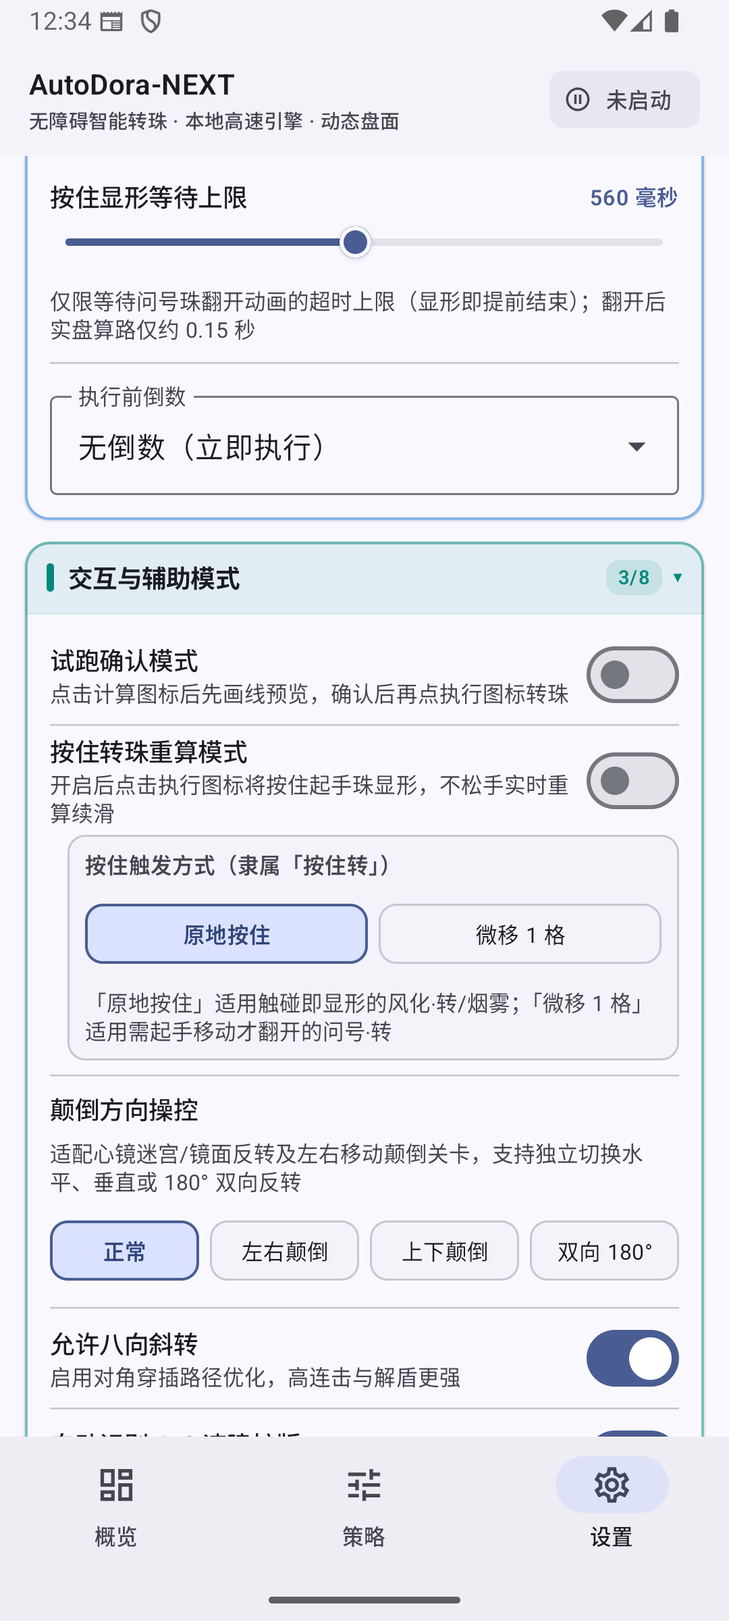
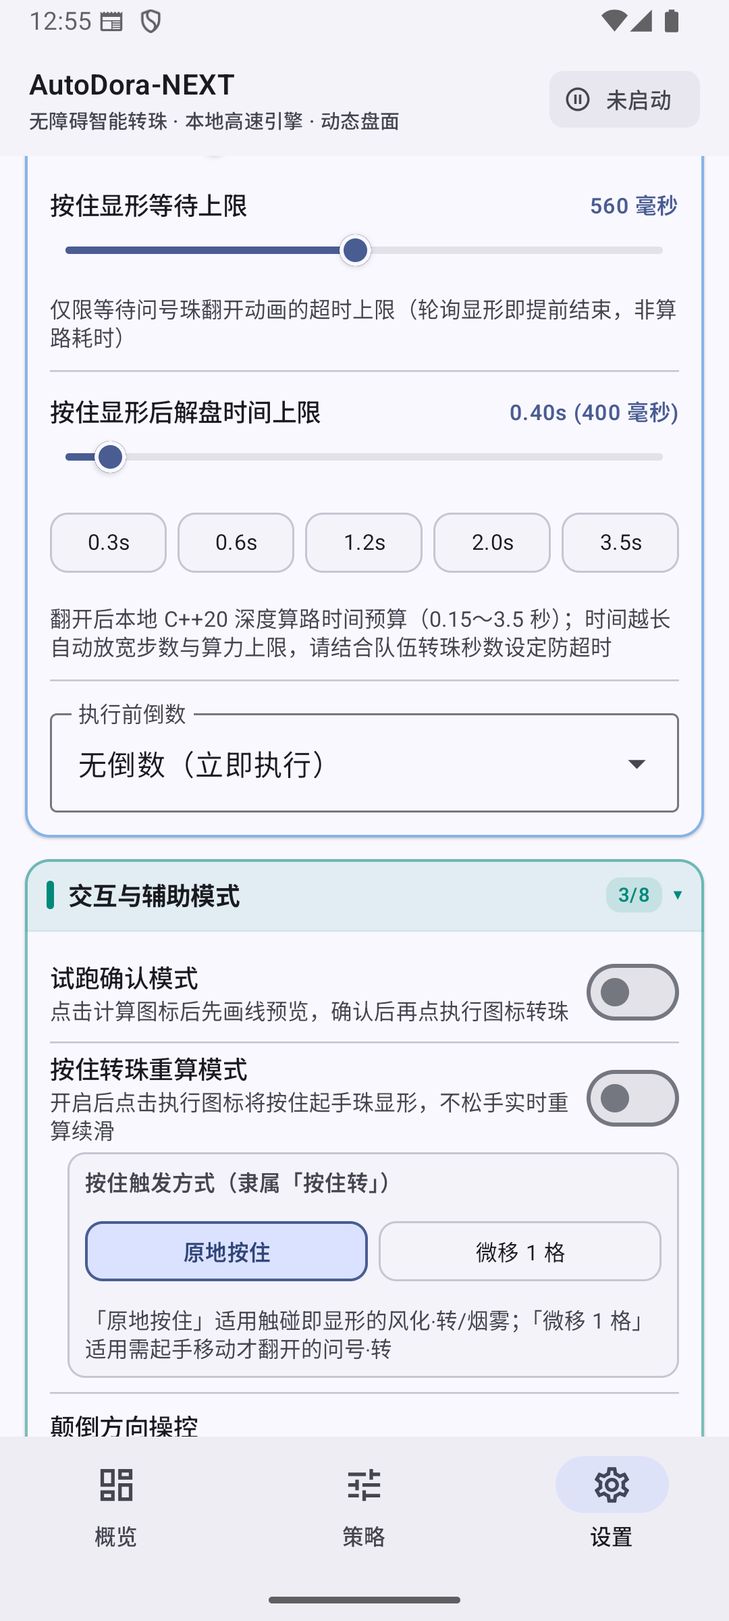
feat(solver,touch,ui): add configurable Hold-Replan post-reveal solve budget (0.15s-3.5s) and fix fixedStartCell beam collapse

Changed region(s): [[0.0306, 0.0938, 0.9778, 0.9062], [0.0917, 0.0, 0.1222, 0.0312]]

diff --git a/android/app/src/main/kotlin/com/autodora/next/overlay/OverlayControllerService.kt b/android/app/src/main/kotlin/com/autodora/next/overlay/OverlayControllerService.kt
@@ -296,7 +296,8 @@ class OverlayControllerService : Service() {
         board: BoardState,
         fixedStartCell: Int = -1,
         fastMode: Boolean = false,
-        fastMaxStepsCap: Int = 30
+        fastMaxStepsCap: Int = 36,
+        fastMaxTimeMs: Int = 400
     ): RuleConfig {
         val preset = activeTeamPreset()
         val global = settings.toRuleConfig()
@@ -327,21 +328,31 @@ class OverlayControllerService : Service() {
         )
         if (!fastMode) return composed
 
-        // Hold-and-Replan real-time hard budget: MUST apply AFTER RuleComposer.compose so highDifficultyShield
-        // never inflates maxTimeMs back to 800ms or beamWidth to 260+ while the game's turn timer is ticking!
+        // Hold-and-Replan real-time budget driven by user-configurable holdReplanSolveTimeMs (150..3500ms):
+        //  - Short budgets (<= 350ms, e.g. classic 5s stages): tight beam/steps keep total turn safe under 2s.
+        //  - Medium budgets (351..1000ms): unlocks deeper 52-step / 360-beam search.
+        //  - Deep budgets (> 1000ms up to 3500ms, e.g. 10s-25s modern teams): unlocks full configured beam (up to 600)
+        //    and up to 80 steps so Hold-and-Replan matches full-power high-combo & complex-shield solving!
         val hasHardShield = activeWaveChips.isNotEmpty() ||
             composed.puzzle1.enabled || composed.puzzle2.enabled ||
             composed.crossShield.requiredCount > 0 ||
             composed.exactTotalCombo >= 0 || composed.exactFirstWaveCombo >= 0
+        val budgetMs = fastMaxTimeMs.coerceIn(150, 3500)
+        val effectiveTimeMs = if (hasHardShield) maxOf(budgetMs, 220) else budgetMs
+        val beamCap = when {
+            effectiveTimeMs <= 350 -> if (hasHardShield) 240 else 200
+            effectiveTimeMs <= 1000 -> 360
+            else -> 600
+        }
         val cappedSteps = if (composed.exactSteps > 0) {
             composed.maxSteps
         } else {
-            minOf(composed.maxSteps, fastMaxStepsCap.coerceIn(16, 36))
+            minOf(composed.maxSteps, fastMaxStepsCap.coerceIn(20, 80))
         }
         return composed.copy(
             maxSteps = cappedSteps,
-            beamWidth = minOf(composed.beamWidth, if (hasHardShield) 200 else 180),
-            maxTimeMs = if (hasHardShield) 180 else 135,
+            beamWidth = minOf(composed.beamWidth, beamCap),
+            maxTimeMs = effectiveTimeMs,
             topK = 1,
             fixedStartCell = fixedStartCell
         )
@@ -1256,10 +1267,14 @@ class OverlayControllerService : Service() {
                 endHoldMs = 28L,
                 maxStepsPerSegment = 18
             )
-            val maxSwipeStepsForBudget = (1800L / holdSwipeConfig.stepDurationMs.coerceAtLeast(24L))
-                .toInt()
-                .coerceIn(24, 30)
+            val holdSolveTimeMs = settings.holdReplanSolveTimeMs.coerceIn(150L, 3500L)
+            val maxSwipeStepsForBudget = when {
+                holdSolveTimeMs <= 350L -> (1800L / holdSwipeConfig.stepDurationMs.coerceAtLeast(24L)).toInt().coerceIn(26, 36)
+                holdSolveTimeMs <= 1000L -> 52
+                else -> 80
+            }
             val maxRevealWaitMs = settings.holdReplanDelayMs.coerceIn(240L, 900L)
+            val maxHoldWaitMs = maxRevealWaitMs + holdSolveTimeMs + 1200L
             val bandTop = (geom.topPx - geom.cellHeight * 0.15f).toInt().coerceAtLeast(0)
             val bandBot = (geom.bottomPx + geom.cellHeight * 0.15f).toInt().coerceAtMost(screenH)
             val startIdx = startCell.row * geom.cols + startCell.col
@@ -1272,6 +1287,7 @@ class OverlayControllerService : Service() {
                     trigger = trigger,
                     nudgeTarget = nudgeCell,
                     revealDelayMs = 0L, // Smart early-ready poller below replaces blind sleep!
+                    maxHoldWaitMs = maxHoldWaitMs,
                     config = holdSwipeConfig
                 ) { heldCell ->
                     val tReplanStart = System.currentTimeMillis()
@@ -1357,13 +1373,14 @@ class OverlayControllerService : Service() {
                     editedBoard = effectiveBoard
                     usedMemorizedSnapshot = false
 
-                    // Phase 2: Tight real-time C++20 single-start solve (strictly <= 135..180ms!)
+                    // Phase 2: Real-time C++20 single-start solve using user's holdReplanSolveTimeMs (150..3500ms)
                     val tSolveStart = System.currentTimeMillis()
                     val composed = composeEffectiveRuleConfig(
                         board = effectiveBoard,
                         fixedStartCell = heldIdx,
                         fastMode = true,
-                        fastMaxStepsCap = maxSwipeStepsForBudget
+                        fastMaxStepsCap = maxSwipeStepsForBudget,
+                        fastMaxTimeMs = holdSolveTimeMs.toInt()
                     )
                     val token = NativeSolver.createCancelToken()
                     activeCancelToken = token

diff --git a/android/core-data/src/main/kotlin/com/autodora/next/data/SettingsRepository.kt b/android/core-data/src/main/kotlin/com/autodora/next/data/SettingsRepository.kt
@@ -50,7 +50,8 @@ data class AppSettings(
     val multiFrameCount: Int = 2,
     val showOrbBadgesOnPath: Boolean = true,    // Show compact recognized orb badges so users verify board accuracy at a glance
     val holdReplanEnabled: Boolean = false,     // Toggle mode: when ON, '行' executes Hold-and-Replan (按住重算)
-    val holdReplanDelayMs: Long = 560L,         // Max wait ceiling for '?' flip reveal (smart early-ready poller exits as soon as board opens!)
+    val holdReplanDelayMs: Long = 560L,         // Max wait ceiling for '?' flip reveal animation (exits early once revealed!)
+    val holdReplanSolveTimeMs: Long = 400L,     // Post-reveal C++20 solve time budget (150..3500ms, default 400ms / max 3.5s)
     val holdReplanNudge: Boolean = true,
     val invertDragX: Boolean = false,
     val invertDragY: Boolean = false,
@@ -101,6 +102,7 @@ class SettingsRepository(private val context: Context) {
 
         val HOLD_REPLAN_ENABLED = booleanPreferencesKey("touch_hold_replan_enabled")
         val HOLD_REPLAN_DELAY_MS = longPreferencesKey("touch_hold_replan_delay_ms")
+        val HOLD_REPLAN_SOLVE_TIME_MS = longPreferencesKey("touch_hold_replan_solve_ms")
         val HOLD_REPLAN_NUDGE = booleanPreferencesKey("touch_hold_replan_nudge")
         val INVERT_DRAG_X = booleanPreferencesKey("touch_invert_drag_x")
         val INVERT_DRAG_Y = booleanPreferencesKey("touch_invert_drag_y")
@@ -129,7 +131,8 @@ class SettingsRepository(private val context: Context) {
         multiFrameCount = p[Keys.MULTI_FRAME_COUNT] ?: 2,
         showOrbBadgesOnPath = p[Keys.SHOW_ORB_BADGES] ?: true,
         holdReplanEnabled = p[Keys.HOLD_REPLAN_ENABLED] ?: false,
-        holdReplanDelayMs = p[Keys.HOLD_REPLAN_DELAY_MS] ?: 560L,
+        holdReplanDelayMs = (p[Keys.HOLD_REPLAN_DELAY_MS] ?: 560L).coerceIn(240L, 900L),
+        holdReplanSolveTimeMs = (p[Keys.HOLD_REPLAN_SOLVE_TIME_MS] ?: 400L).coerceIn(150L, 3500L),
         holdReplanNudge = p[Keys.HOLD_REPLAN_NUDGE] ?: true,
         invertDragX = p[Keys.INVERT_DRAG_X] ?: false,
         invertDragY = p[Keys.INVERT_DRAG_Y] ?: false,
@@ -165,7 +168,8 @@ class SettingsRepository(private val context: Context) {
             p[Keys.MULTI_FRAME_COUNT] = next.multiFrameCount.coerceIn(1, 3)
             p[Keys.SHOW_ORB_BADGES] = next.showOrbBadgesOnPath
             p[Keys.HOLD_REPLAN_ENABLED] = next.holdReplanEnabled
-            p[Keys.HOLD_REPLAN_DELAY_MS] = next.holdReplanDelayMs.coerceIn(160L, 900L)
+            p[Keys.HOLD_REPLAN_DELAY_MS] = next.holdReplanDelayMs.coerceIn(240L, 900L)
+            p[Keys.HOLD_REPLAN_SOLVE_TIME_MS] = next.holdReplanSolveTimeMs.coerceIn(150L, 3500L)
             p[Keys.HOLD_REPLAN_NUDGE] = next.holdReplanNudge
             p[Keys.INVERT_DRAG_X] = next.invertDragX
             p[Keys.INVERT_DRAG_Y] = next.invertDragY

diff --git a/android/app/src/main/kotlin/com/autodora/next/ui/DashboardScreen.kt b/android/app/src/main/kotlin/com/autodora/next/ui/DashboardScreen.kt
@@ -820,6 +820,43 @@ private fun SettingsTab(
                 style = MaterialTheme.typography.bodySmall,
                 color = MaterialTheme.colorScheme.onSurfaceVariant
             )
+            HorizontalDivider(color = MaterialTheme.colorScheme.outlineVariant)
+            val solveSecFormatted = String.format(java.util.Locale.US, "%.2fs", settings.holdReplanSolveTimeMs / 1000.0)
+            SliderSettingRow(
+                label = stringResource(R.string.slider_hold_solve_time),
+                valueText = "$solveSecFormatted (${settings.holdReplanSolveTimeMs} $msUnit)",
+                value = settings.holdReplanSolveTimeMs.toFloat().coerceIn(150f, 3500f),
+                valueRange = 150f..3500f,
+                onValueChange = { v ->
+                    onUpdateSettings {
+                        it.copy(holdReplanSolveTimeMs = ((v / 50f).roundToLong() * 50L).coerceIn(150L, 3500L))
+                    }
+                }
+            )
+            Row(
+                modifier = Modifier.fillMaxWidth(),
+                horizontalArrangement = Arrangement.spacedBy(6.dp)
+            ) {
+                for ((presetLabel, presetMs) in listOf(
+                    "0.3s" to 300L,
+                    "0.6s" to 600L,
+                    "1.2s" to 1200L,
+                    "2.0s" to 2000L,
+                    "3.5s" to 3500L
+                )) {
+                    CompactChoicePill(
+                        label = presetLabel,
+                        selected = settings.holdReplanSolveTimeMs == presetMs,
+                        onClick = { onUpdateSettings { it.copy(holdReplanSolveTimeMs = presetMs) } },
+                        modifier = Modifier.weight(1f)
+                    )
+                }
+            }
+            Text(
+                text = stringResource(R.string.slider_hold_solve_time_sub),
+                style = MaterialTheme.typography.bodySmall,
+                color = MaterialTheme.colorScheme.onSurfaceVariant
+            )
 
             // Pre-Swipe Countdown Native Exposed Dropdown (pre-resolved with localized context so Popup never falls back to system locale!)
             HorizontalDivider(color = MaterialTheme.colorScheme.outlineVariant)

diff --git a/android/core-touch/src/main/kotlin/com/autodora/next/touch/AutoDoraAccessibilityService.kt b/android/core-touch/src/main/kotlin/com/autodora/next/touch/AutoDoraAccessibilityService.kt
@@ -165,6 +165,7 @@ class AutoDoraAccessibilityService : AccessibilityService() {
         trigger: HoldReplanTrigger,
         nudgeTarget: CellCoord?,
         revealDelayMs: Long,
+        maxHoldWaitMs: Long = 2400L,
         config: SwipeConfig,
         onBoardRevealed: suspend (heldCell: CellCoord) -> SolutionPath?
     ): TouchExecutionResult = coroutineScope {
@@ -216,10 +217,11 @@ class AutoDoraAccessibilityService : AccessibilityService() {
             onBoardRevealed(effectiveNudgeCell)
         }
 
-        // 3. Keep finger pressed seamlessly via calm micro-heartbeat strokes (avoids Binder spam while staying responsive!)
+        // 3. Keep finger pressed seamlessly via calm micro-heartbeat strokes (supports up to 3.5s post-reveal solve!)
         var toggle = false
         var heartbeatIdx = 0
-        val maxWaitDeadline = System.currentTimeMillis() + revealDelayMs.coerceAtLeast(0L) + 1800L
+        val effectiveWaitCapMs = maxHoldWaitMs.coerceIn(1800L, 6500L)
+        val maxWaitDeadline = System.currentTimeMillis() + revealDelayMs.coerceAtLeast(0L) + effectiveWaitCapMs
         while (!replanDeferred.isCompleted && !cancelRequested.get() && System.currentTimeMillis() < maxWaitDeadline) {
             val nextPt = if (toggle) {
                 ScreenPoint(heldPt.x + 2.0f, heldPt.y)
@@ -231,8 +233,12 @@ class AutoDoraAccessibilityService : AccessibilityService() {
                 moveTo(curFingerPt.x, curFingerPt.y)
                 lineTo(nextPt.x, nextPt.y)
             }
-            // First hold covers initial flip latency in 1 IPC call (140ms); subsequent heartbeats 75ms for snappy handoff
-            val hbMs = if (heartbeatIdx == 0) 140L else 75L
+            // First hold covers initial flip latency (140ms); quick 85ms beats early; gentle 110ms beats during deep 1..3.5s solves
+            val hbMs = when {
+                heartbeatIdx == 0 -> 140L
+                heartbeatIdx <= 5 -> 85L
+                else -> 110L
+            }
             heartbeatIdx++
             val nextStroke = activeStroke.continueStroke(holdPath, 0L, hbMs, true)
             if (!dispatchSingleStroke(nextStroke, true, nextPt)) {

diff --git a/android/app/src/main/kotlin/com/autodora/next/overlay/OverlayTuningDrawer.kt b/android/app/src/main/kotlin/com/autodora/next/overlay/OverlayTuningDrawer.kt
@@ -1371,6 +1371,26 @@ class OverlayTuningDrawerController(
             engBody.addView(makeComputeSeekBar(settings.beamWidth, p, beamLbl) { nb ->
                 onUpdateSettings { it.copy(beamWidth = nb) }
             })
+
+            engBody.addView(makeSubDivider(p))
+            val solveSecLabel = String.format(java.util.Locale.US, "%.2fs", settings.holdReplanSolveTimeMs / 1000.0)
+            engBody.addView(makeSubLabel(s(R.string.ov_hold_solve_hdr_fmt, solveSecLabel), p))
+            val holdSolveRow = hRow(bottomMarginDp = 0)
+            val holdPresets = listOf("0.3s" to 300L, "0.6s" to 600L, "1.2s" to 1200L, "2.0s" to 2000L, "3.5s" to 3500L)
+            holdPresets.forEachIndexed { idx, (lbl, ms) ->
+                holdSolveRow.addView(
+                    makeToggle(
+                        lbl,
+                        settings.holdReplanSolveTimeMs == ms,
+                        p,
+                        weight = 1f,
+                        marginEndDp = if (idx == holdPresets.lastIndex) 0 else 4
+                    ) {
+                        onUpdateSettings { it.copy(holdReplanSolveTimeMs = ms) }
+                    }
+                )
+            }
+            engBody.addView(holdSolveRow)
         }
 
         // Card 1 (Amber): Unified 6-Tier Swipe Speed Presets (2s..7s, matches Launch App Settings Amber card!)

diff --git a/android/core-touch/src/main/kotlin/com/autodora/next/touch/AccessibilityTouchExecutor.kt b/android/core-touch/src/main/kotlin/com/autodora/next/touch/AccessibilityTouchExecutor.kt
@@ -27,6 +27,7 @@ class AccessibilityTouchExecutor : TouchExecutor {
         trigger: HoldReplanTrigger,
         nudgeTarget: CellCoord?,
         revealDelayMs: Long,
+        maxHoldWaitMs: Long,
         config: SwipeConfig,
         onBoardRevealed: suspend (heldCell: CellCoord) -> SolutionPath?
     ): TouchExecutionResult {
@@ -38,6 +39,7 @@ class AccessibilityTouchExecutor : TouchExecutor {
             trigger = trigger,
             nudgeTarget = nudgeTarget,
             revealDelayMs = revealDelayMs,
+            maxHoldWaitMs = maxHoldWaitMs,
             config = config,
             onBoardRevealed = onBoardRevealed
         )
@@ -79,6 +81,7 @@ class ShizukuTouchExecutor : TouchExecutor {
         trigger: HoldReplanTrigger,
         nudgeTarget: CellCoord?,
         revealDelayMs: Long,
+        maxHoldWaitMs: Long,
         config: SwipeConfig,
         onBoardRevealed: suspend (heldCell: CellCoord) -> SolutionPath?
     ): TouchExecutionResult {

diff --git a/android/core-touch/src/main/kotlin/com/autodora/next/touch/TouchExecutor.kt b/android/core-touch/src/main/kotlin/com/autodora/next/touch/TouchExecutor.kt
@@ -81,6 +81,7 @@ interface TouchExecutor {
         trigger: HoldReplanTrigger = HoldReplanTrigger.HOLD_IN_PLACE,
         nudgeTarget: CellCoord? = null,
         revealDelayMs: Long = 360L,
+        maxHoldWaitMs: Long = 2400L,
         config: SwipeConfig = SwipeConfig(),
         onBoardRevealed: suspend (heldCell: CellCoord) -> SolutionPath?
     ): TouchExecutionResult

diff --git a/solver-core/src/solver.cpp b/solver-core/src/solver.cpp
@@ -703,7 +703,9 @@ SolveOutput PuzzleSolver::solve(
         std::array<uint32_t, kMaxCells> startCounts{};
         std::array<uint32_t, kMaxCells> curCounts{};
 
-        const uint32_t maxPerStart = (depth <= 8)
+        // When fixedStartCell >= 0 (Hold-and-Replan), all nodes share the single held start cell;
+        // do NOT apply multi-start per-start cap (otherwise depths 1..8 collapse primary diversity to ~12 nodes!).
+        const uint32_t maxPerStart = (rules.fixedStartCell < 0 && depth <= 8)
             ? std::max<uint32_t>(4, beamWidth / std::max<uint32_t>(8, totalCells / 2))
             : beamWidth;
         const uint32_t maxPerCur = std::max<uint32_t>(6, beamWidth / std::max<uint32_t>(6, totalCells / 3));

diff --git a/docs/ARCHITECTURE.md b/docs/ARCHITECTURE.md
@@ -65,7 +65,7 @@ flowchart LR
 | 模式 | 适用场景 | 实现机制 |
 | :--- | :--- | :--- |
 | **模式 A：先露后藏记忆快照**（`FlashRevealMemoryTracker`） | 进场或回合初短暂展示真实盘面后翻为全版 `?` 问号珠 | 后台监听仅在血条验证有效战斗态下锁定翻面前最后一张稳定清晰盘面；当连续 `≥ 2` 帧检测到 `≥ 60%` 格子为 `?` 问号珠时自动触发透视叠画并直接送入求解器。 |
-| **模式 B：免 Root 按住重算**（`Hold-and-Replan`） | 问号‧转 / 风化‧转 / 烟雾等须先按住或微移 1 格才显形/变盘的关卡 | 主开关「按住转珠重算」下设隶属触发子项：**「原地按住」**（`HOLD_IN_PLACE`，触碰即显形）与 **「微移 1 格」**（`NUDGE_ONE_CELL_HOLD`，需起手移动触发翻牌）。`AccessibilityTouchExecutor` 以 `willContinue = true` 心跳保活不抬手 → 智能早停轮询（超时上限 `holdReplanDelayMs = 240–900ms`，显形即刻提前退出，**非算路时间**）→ 以当前按住格为 `fixedStartCell` 执行 C++20 急速重算（硬限 `135–180ms` 确保绝不超 5 秒转珠时限）→ 同一根手指 `continueStroke()` 无缝接续滑完全程。 |
+| **模式 B：免 Root 按住重算**（`Hold-and-Replan`） | 问号‧转 / 风化‧转 / 烟雾等须先按住或微移 1 格才显形/变盘的关卡 | 主开关「按住转珠重算」下设隶属触发子项：**「原地按住」**（`HOLD_IN_PLACE`）与 **「微移 1 格」**（`NUDGE_ONE_CELL_HOLD`）。`AccessibilityTouchExecutor` 以动态上限 `maxHoldWaitMs` 心跳保活不抬手 → 显形动画早停轮询（`holdReplanDelayMs = 240–900ms`）→ 以当前按住格为 `fixedStartCell`（解除单起点早期 `maxPerStart` 波束坍缩）执行 **用户可配时间预算的 C++20 深度求解（`holdReplanSolveTimeMs = 150–3500ms`，默认 `400ms`；自动分级解锁 `36 / 52 / 80` 步与 `200 / 360 / 600` 算力）** → 同一根手指 `continueStroke()` 无缝续滑全程。 |
 
 ### 2.3 1:1 交互式盘面编排（`OverlayBoardEditor`）
 
@@ -132,7 +132,7 @@ flowchart LR
 | **分页结构** | 3-Tab：**概览 / 策略 / 设置** | 3-Tab：**快捷 / 策略 / 设置** |
 | **抽屉色彩** | 6 色语义色条 + 浅色边框卡片（蓝/靛蓝/青绿/琥珀/绯红/紫） | 与启动页对应模块使用**完全一致的抽屉配色** |
 | **展开模式** | 默认**全部展开**，支持多抽屉同时展开或单独收起 | 每分页采用**单抽屉手风琴互斥展开**，防止遮挡游戏盘面 |
-| **主题与语言** | 跟随系统 / 明亮 / 黑暗 Material You；跟随系统 / 简中 / 繁中 / English（`529` 词条对齐） | 与启动页**实时同步换肤与热切语言**，零重启 |
+| **主题与语言** | 跟随系统 / 明亮 / 黑暗 Material You；跟随系统 / 简中 / 繁中 / English（`532` 词条对齐） | 与启动页**实时同步换肤与热切语言**，零重启 |
 | **主悬浮胶囊** | 概览页一键启停悬浮助手 | 圆形 App 图标手柄 + 8 个矢量图标（`✦` `▶` `■` `〰` `▤` `▦` `🎚` `✕`） |
 
 ### 5.2 轻量策略库与应用内更新闭环
@@ -215,7 +215,7 @@ flowchart TD
 | `android/core-touch/` | `AccessibilityTouchExecutor`、`PathInterpolator`、`SwipeSpeedPreset` | `PathInterpolatorTest`：**8 / 8** 通过 |
 | `android/core-data/` | DataStore 设置、Room 策略库、39 盾牌 / 98 敌技 / 22 状态目录 | 随 `:core-model` 与 `:app` 联合验证 |
 | `android/solver-jni/` | C++20 NDK/JNI 桥接（`arm64-v8a` / `armeabi-v7a` / `x86_64`） | 随 Release/Debug APK 与真机/模拟器测速验证 |
-| `android/app/` | 3-Tab Compose 启动台、悬浮服务/抽屉/编排、`UpdateChecker` | `UpdateCheckerTest` (4) + `BoardEditorBrushTest` (3)：**7 / 7** 通过；四语言词条一致性 **529 / 529** |
+| `android/app/` | 3-Tab Compose 启动台、悬浮服务/抽屉/编排、`UpdateChecker` | `UpdateCheckerTest` (4) + `BoardEditorBrushTest` (3)：**7 / 7** 通过；四语言词条一致性 **532 / 532** |
 
 ---
 
@@ -225,5 +225,5 @@ flowchart TD
 | :--- | :---: | :--- |
 | **Phase 1：纯 C++20 动态内核 + 多模块骨架** | `v0.1.0` | **已完成** — `3×3~8×8` 64-bit 位掩码求解器、最高 300 步、Android 7 模块工程与 JNI 三架构编译。 |
 | **Phase 2 & 2.5：免 Root 全链路 + 真图高精度标定** | `v0.2.x` – `v0.3.x` | **已完成** — 零拷贝 `MediaProjection`、血条防假违建、先露后藏记忆快照、免 Root 按住重算续滑、拼图/红绿灯/暴风/化血/结界识别、非战斗/VICTORY 过滤、方向逆转与逐盾 `✓/✗` 判定。 |
-| **Phase 3 & 3.5：百科全量审计 + 统一交互 + 特殊符石 CV 与长时自愈** | `v0.4.0` – `v0.4.3+`（`dev` 当前） | **已完成** — 98 敌技 + 20 符石状态 + 百科外经典符石（锁定/荆棘）+ 7 大官方种族全链路升级；长时 `VirtualDisplay` 黑屏/卡死自动自愈、全态血条防假违建（含 `1/584001` 空血暗槽 + 红心徽章）与非战斗悬浮自激拦截；7 种族圆章 V3 / 起结有序 V4 / 石化 / 全版 30 颗锁定·化血 / 荆棘符石自动 CV 识别；3-Tab Material You 启动页与同色系单抽屉悬浮面板；双端统一四态颠倒方向操控与嵌套按住触发子项；圆形 App 图标紧凑胶囊；5 色分组 1:1 盘面编排；6 档统一速度（`2s~7s`）；Room 精简策略库；三语热切（529 词条）；GitHub Releases 应用内流式下载与 `FileProvider` 自动安装。 |
+| **Phase 3 & 3.5：百科全量审计 + 统一交互 + 特殊符石 CV 与长时自愈** | `v0.4.0` – `v0.4.3+`（`dev` 当前） | **已完成** — 98 敌技 + 20 符石状态 + 百科外经典符石（锁定/荆棘）+ 7 大官方种族全链路升级；长时 `VirtualDisplay` 黑屏/卡死自动自愈、全态血条防假违建（含 `1/584001` 空血暗槽 + 红心徽章）与非战斗悬浮自激拦截；7 种族圆章 V3 / 起结有序 V4 / 石化 / 全版 30 颗锁定·化血 / 荆棘符石自动 CV 识别；3-Tab Material You 启动页与同色系单抽屉悬浮面板；双端统一四态颠倒方向操控、嵌套按住触发子项与可配按住显形后解盘时间（`0.15–3.5s`）；圆形 App 图标紧凑胶囊；5 色分组 1:1 盘面编排；6 档统一速度（`2s~7s`）；Room 精简策略库；三语热切（532 词条）；GitHub Releases 应用内流式下载与 `FileProvider` 自动安装。 |
 | **Phase 4：端侧多头 AI 识盘 + 敌技自动解析 + Shizuku 扩展** | `v0.5.x` – `v1.0.0`（规划中） | **规划中** — ① 悬浮纠错一键样本采集与 ZIP 数据飞轮；② `ml/` 多头轻量 CNN 训练与 LiteRT (`.tflite`) 端侧热加载（攻克黑白符石、合作皮肤、7 种族角标与 20 种状态全自动识别，目标整盘推理 `< 20ms`）；③ 端侧离线敌技说明自动解析（结合官方三态灰字无视过滤自动勾选波次盾）；④ 可选 Shizuku 特权触控引擎；⑤ 稳定版 `v1.0.0` 正式发布。 |

diff --git a/README.md b/README.md
@@ -49,7 +49,7 @@
   - 结界地形兼容识别，以及非战斗活动列表（强制校验盘面上方血条隔离带，根除自身半透明记忆圆圈自激反馈循环）、关卡转场、`VICTORY` 结算画面与敌技详情弹窗的自动静默拦截，彻底消除非战斗残留浮动识别层。
 - **全屏问号珠双模破局**：
   - **先露后藏记忆快照（`FlashRevealMemoryTracker`）**：后台静默锁定翻面前的清晰盘面，全版变 `?` 后自动透视叠画并直接求解。
-  - **免 Root 按住重算（Hold-and-Replan）**：主开关 **「按住转珠重算」** 下设隶属触发子项——**「原地按住」**（适用触碰即显形的风化‧转/烟雾）与 **「微移 1 格」**（适用需起手轻移才翻开的问号‧转）。「按住显形等待上限（`240–900 ms`）」仅控制等待翻牌动画的超时上限（轮询显形即刻提前结束），翻开后本地 C++20 实时重算硬限 `135–180 ms` 确保全链路极速续滑绝不超转珠时限。
+  - **免 Root 按住重算（Hold-and-Replan）**：主开关 **「按住转珠重算」** 下设隶属触发子项——**「原地按住」**（适用触碰即显形的风化‧转/烟雾）与 **「微移 1 格」**（适用需起手轻移才翻开的问号‧转）；内置两项独立参数：**「按住显形等待上限（`240–900 ms`）」**（仅限翻牌动画超时，轮询显形即提前退出）与 **「按住显形后解盘时间上限（`0.15–3.5 s`，默认 `0.4 s`，双端快捷档 `0.3s / 0.6s / 1.2s / 2.0s / 3.5s`）」**——随预算自动放宽步数（最高 80 步）与算力宽度（最高 600）并修复单起点早期波束坍缩，配合心跳保活无缝续滑。
 
 ### 3. 免 Root 精准分段手势与 6 档统一速度（`core-touch`）
 
@@ -80,7 +80,7 @@
 
 ### 5. 多语言、主题与应用内更新
 
-- **四套资源三语实时热切**：内置 **简体中文 / 繁體中文 / English / 跟随系统**（`529` 项词条 100% 四语言对齐），无需重启应用实时刷新主界面与悬浮窗。
+- **四套资源三语实时热切**：内置 **简体中文 / 繁體中文 / English / 跟随系统**（`532` 项词条 100% 四语言对齐），无需重启应用实时刷新主界面与悬浮窗。
 - **Material You 双主题联动**：支持 **跟随系统 / 明亮 / 黑暗** 三态，主控台与游戏内悬浮栏/调参面板/编排面板同步换肤。
 - **应用内下载与自动安装**：在「设置 → 关于与版本」内置 GitHub 仓库入口与检查更新；发现新版本后点击 **「下载并安装」** 直接在 App 内流式下载 GitHub Release 安装包（自动跟随 CDN 重定向、实时 MB/百分比进度条、随时取消、旧缓存自动清理、`PK\x03\x04` 完整校验），下载完成自动通过 `FileProvider` 拉起 Android 系统安装器完成升级（若尚未允许「安装未知应用」，自动引导授权并在返回后无缝续接安装）。
 
@@ -131,7 +131,7 @@ AutoDora-NEXT/
   - **《神魔百科》98 敌技 + 20 符石状态 + 百科外经典符石（锁定/荆棘）+ 7 大官方种族全量审计与引擎/CV/编排闭环升级**。
   - **Material 3 / Material You 3-Tab 启动页 + 同色系悬浮 3-Tab 单抽屉调参面板 + 圆形 App 图标紧凑悬浮栏**。
   - **5 色分组 1:1 盘面编排**（单点互斥绿/红漩涡、多格角色通行/停放、18 项齐整符石状态画笔含荆棘/锁定、独立清除格标、「保存版面 → 主栏计算/执行」工作流）。
-  - **长时采集 Surface 自动自愈** + **空血 `1 HP` 暗槽血条锚定防假违建** + **非战斗悬浮自激拦截** + **全 7 种族圆章 / 起结有序 V4 / 石化 / 全版 30 颗锁定·化血 / 荆棘符石自动 CV 识别** + **双端统一四态颠倒方向操控 & 嵌套按住触发子项** + **6 档统一速度（`2s~7s`）**、**精简 Room 策略库**、**三语热切（529 词条）** 与 **GitHub Releases 应用内流式下载 + FileProvider 自动拉起安装**。
+  - **长时采集 Surface 自动自愈** + **空血 `1 HP` 暗槽血条锚定防假违建** + **非战斗悬浮自激拦截** + **全 7 种族圆章 / 起结有序 V4 / 石化 / 全版 30 颗锁定·化血 / 荆棘符石自动 CV 识别** + **双端统一四态颠倒方向操控 & 嵌套按住触发子项 & 可配按住显形后解盘时间（`0.15–3.5s`）** + **6 档统一速度（`2s~7s`）**、**精简 Room 策略库**、**三语热切（532 词条）** 与 **GitHub Releases 应用内流式下载 + FileProvider 自动拉起安装**。
 - [ ] **Phase 4（规划中）**：端侧多头轻量 CNN（LiteRT `.tflite` 热加载，攻克黑白符石/复杂联名皮肤/叠加态自动识盘）、纠错样本本地采集飞轮、端侧敌技说明自动解析与可选 Shizuku 触控引擎。
 
 ---

diff --git a/docs/TOS_COMPLETE_MECHANICS_CATALOG.md b/docs/TOS_COMPLETE_MECHANICS_CATALOG.md
@@ -10,7 +10,7 @@
 | 机制 / 敌技 | 实战表现与判定规则 | 对应架构层 | `v0.4.2` 当前状态 |
 | :--- | :--- | :--- | :---: |
 | **先露后藏全版问号珠 / 初现问号珠** | 进场或回合初短暂展示 0.5~2s 真实盘面，随后全部翻为 `?` 问号珠 | `FlashRevealMemoryTracker` 后台记忆环 + `?` 珠专属分类 + 连续 2 帧防误触透视叠画 | **已实装** |
-| **按珠变盘 / 问号‧转 / 风化‧转 / 烟雾显形** | 须先按住（或轻移 1 格）一颗珠子触发显形/变盘，再从当前按住格重规划完成转珠 | 免 Root `Hold-and-Replan`：主开关下设「原地按住 / 微移 1 格」触发子项 → `willContinue = true` 心跳保活 → 显形动画早停轮询（上限 `240–900ms`）→ `fixedStartCell` 极速重算（`135–180ms`）→ 同指无缝续滑 | **已实装** |
+| **按珠变盘 / 问号‧转 / 风化‧转 / 烟雾显形** | 须先按住（或轻移 1 格）一颗珠子触发显形/变盘，再从当前按住格重规划完成转珠 | 免 Root `Hold-and-Replan`：主开关下设「原地按住 / 微移 1 格」触发子项 → 动态 `maxHoldWaitMs` 心跳保活 → 显形动画早停轮询（上限 `240–900ms`）→ 可配 `holdReplanSolveTimeMs` 深度求解（`0.15–3.5s`，解除单起点波束坍缩并自动解锁高步数/高算力）→ 同指无缝续滑 | **已实装** |
 | **随机问号珠** | 部分符石显示为 `?`，转珠经过或特定条件后显形 | `?` 珠专属 CV 分类（绝不误判水珠） + 1:1 盘面编排补全兜底 | **已实装** |
 | **全版隐藏 / 隐藏围城 / 敌死转隐藏** | 符石背面不可见 | 记忆快照锁定隐藏前清晰帧 + 1:1 编排兜底 | **已实装** |
 | **轨迹隐藏 / 轨迹问号 / 轨迹黑白** | 路径经过的格子变为隐藏/问号/黑白 | 起手前一次性识盘、算路并自动划完即**天然免疫** | **天然免疫** |
